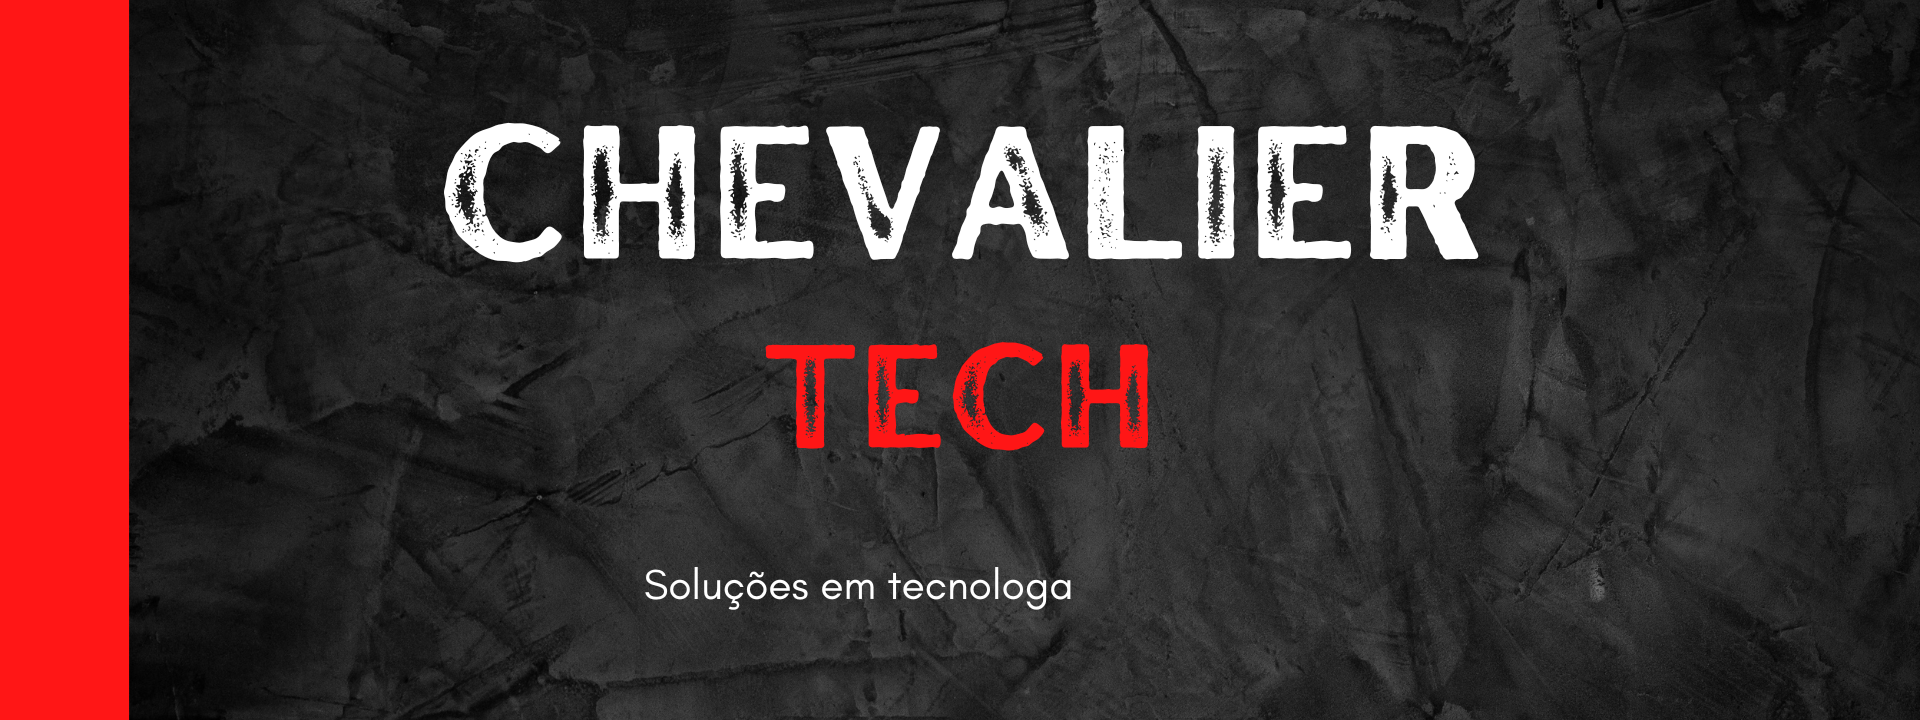
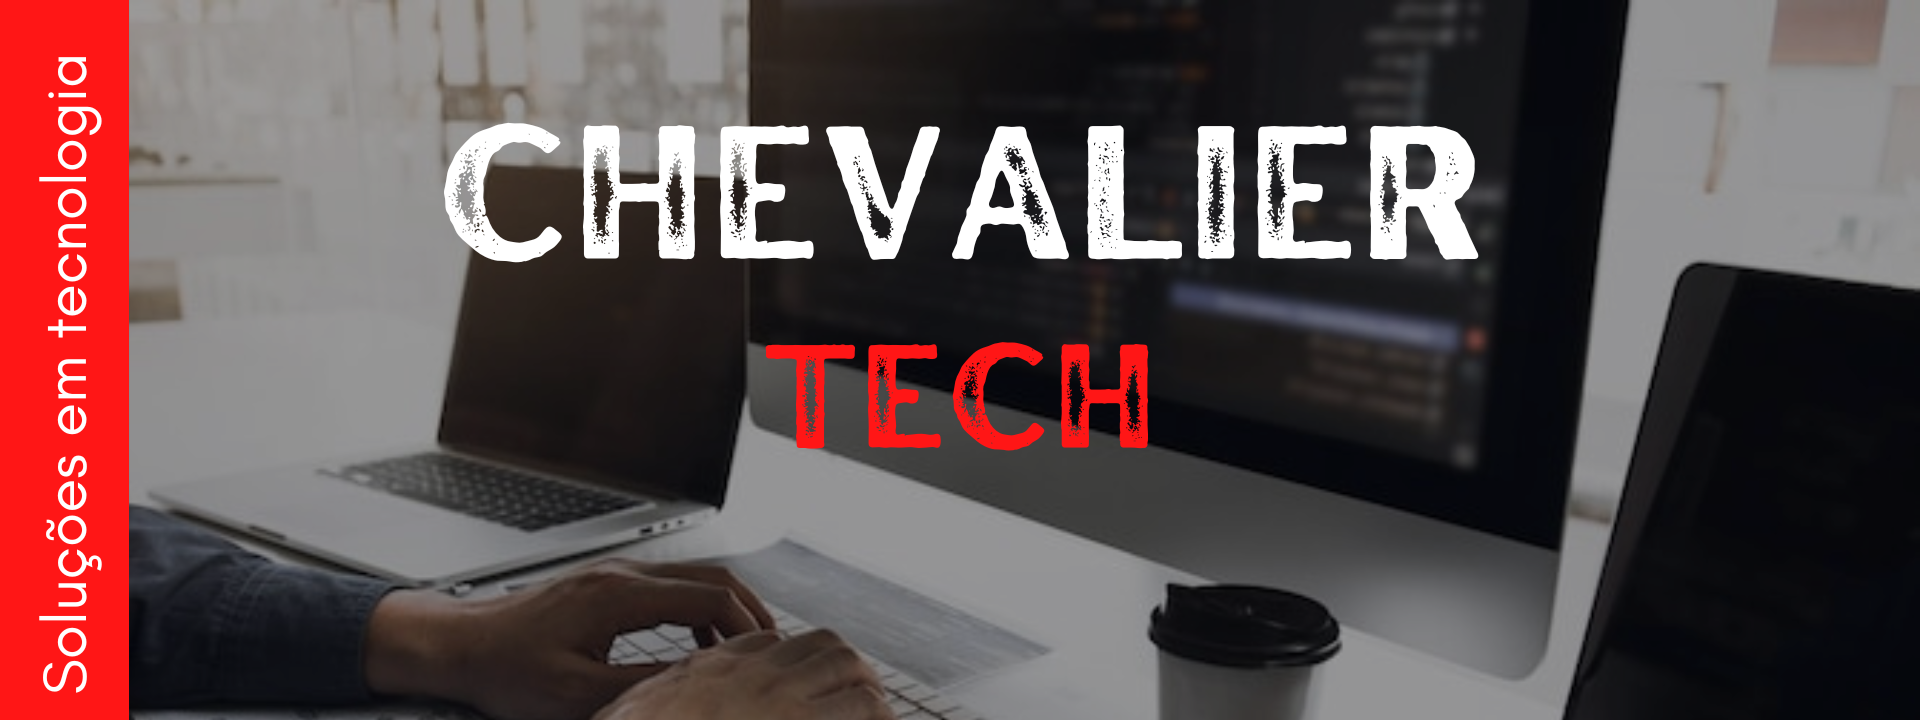
...

diff --git a/chevaliertech/src/componentes/menu/Menu.js b/chevaliertech/src/componentes/menu/Menu.js
@@ -1,14 +1,31 @@
+import {useState} from 'react';
+
 import './menu.css';
 
 export const Menu = () =>{
+    const [home,setHome] = useState();
+    const [portifolio,setPortifolio] = useState();
+    const [contato,setContato] = useState();
+    const [login,setLogin] = useState();
+
+
+function clickHome(){
+    setHome(!home);
+    
+    
+}
     return(
-        <nav className="menu">
-            <ul>
-                <li className="menu-li"><a  href="#">Home</a></li>
-                <li className="menu-li"><a href="#">Portifólio</a></li>
-                <li className="menu-li"><a href="#">Contato</a></li>
-                <li className="active"><a href="admin">LOGIN</a></li>
-            </ul>
-        </nav>
+        <div className="content_menu">
+            <nav className="menu">
+                <ul>
+                    <li className="menu-li" ><button type="button" onClick={clickHome} >Home</button></li>
+                    <li className="menu-li"><a href="#">Portifólio</a></li>
+                    <li className="menu-li"><a href="#">Contato</a></li>
+                    <li className="active"><a href="admin">LOGIN</a></li>
+                </ul>
+            </nav>
+        </div>
+        
     )
 }
+

diff --git a/chevaliertech/src/componentes/banner/banner.css b/chevaliertech/src/componentes/banner/banner.css
@@ -1,19 +1,21 @@
 .banner{
-    background-color:blanchedalmond;
-    font-family: 'Courier New', Courier, monospace;
-    font-size: large;
-    margin: auto;
-    float: left;
-    padding-top: 16px;
-    width: 100%;
-    height: 400px;
+    background-repeat: no-repeat;
+    
+    height: 720px;
+    background-image: url('../../../public/imagens/Banner.png');
+    background-size:auto;
+    background-attachment: fixed;
+    background-position: top;
+
+    
+    
+    
     
 }
 .banner h1{
     text-align: center;
-
-
 }
 .banner img{
     width: 100%;
+    
 }

diff --git a/chevaliertech/src/componentes/menu/menu.css b/chevaliertech/src/componentes/menu/menu.css
@@ -1,3 +1,4 @@
+
 .menu{
     color: darkred;
 }
@@ -17,10 +18,10 @@
     float: left;
 }
 
-.menu-login li {
-    float:right;   
+.menu li a :hover{
+    background-color: #111;
 }
-.menu li a:hover{
+.menu li button:hover{
     background-color: #111;
 }
 .menu a{
@@ -30,7 +31,14 @@
     padding: 14px 16px;
     text-decoration: none;
 }
-
+.menu button{
+    display: block;
+    color: white;
+    background-color: #333;
+    text-align: center;
+    padding: 14px 16px;
+    text-decoration: none;
+}
 .active{
     background-color: #04AA6D
 }

diff --git a/chevaliertech/src/App.js b/chevaliertech/src/App.js
@@ -1,5 +1,7 @@
+import {useState} from 'react';
 import { Banner } from './componentes/banner/Banner';
 import { Menu } from './componentes/menu/Menu';
+import {Home} from './componentes/home/Home';
 import './App.css';
 
 
@@ -10,6 +12,14 @@ function App() {
         <Menu />
         <Banner />
       </header>
+      <body>
+      { clickHome() &&(
+          <Home />      
+      )}
+          
+        
+        
+      </body>
       
         
         

diff --git a/chevaliertech/src/componentes/banner/Banner.js b/chevaliertech/src/componentes/banner/Banner.js
@@ -3,9 +3,7 @@ import './banner.css';
 export const Banner = () =>{
     return(
         <div className="banner">
-            <img src="/imagens/banner.png" alt="banner principal"/>
-        </div>
-            
-        
+            {/*<img src="/imagens/banner.png" alt="banner principal"/>*/}
+        </div>        
     )
 }

diff --git a/chevaliertech/src/componentes/home/Home.js b/chevaliertech/src/componentes/home/Home.js
@@ -1,0 +1,12 @@
+import './home.css';
+
+import {Cabecalho} from '../textos/Textos';
+
+export const Home = () => {
+    return(
+        <div className='content'>
+                <Cabecalho texto=' Página Home' />            
+        </div>
+        
+    )
+}

diff --git a/chevaliertech/src/componentes/textos/Textos.js b/chevaliertech/src/componentes/textos/Textos.js
@@ -1,0 +1,7 @@
+import './textos.css';
+
+export const Cabecalho = (Props) => {
+    return(
+        <h3 className="cabecalho">{Props.texto}</h3>
+    )
+}

diff --git a/chevaliertech/src/componentes/textos/textos.css b/chevaliertech/src/componentes/textos/textos.css
@@ -1,0 +1,6 @@
+.cabecalho{
+    float: left;
+    text-align: center;
+    position: static;    
+    padding-top: 50%;   
+}

diff --git a/chevaliertech/src/componentes/home/home.css b/chevaliertech/src/componentes/home/home.css
@@ -1,0 +1,8 @@
+.content{
+    float: left;
+    background-color: brown;
+    width: 100%;
+    
+    
+    
+}

diff --git a/chevaliertech/src/App.css b/chevaliertech/src/App.css
@@ -1,3 +1,8 @@
 .App{
     background-color: #333;
+    
+}
+
+.content_cabecalho{
+
 }
